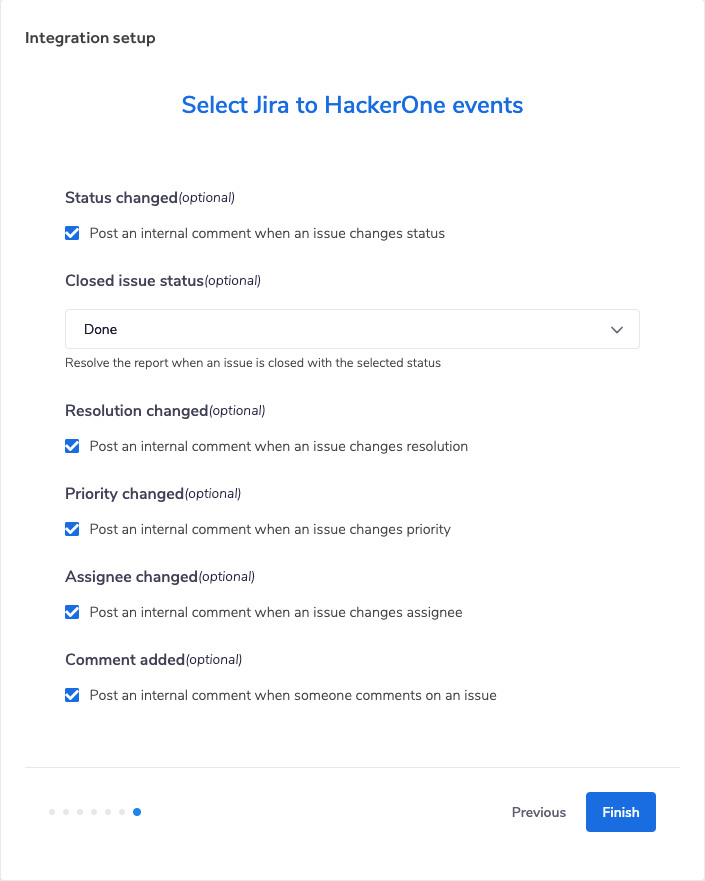
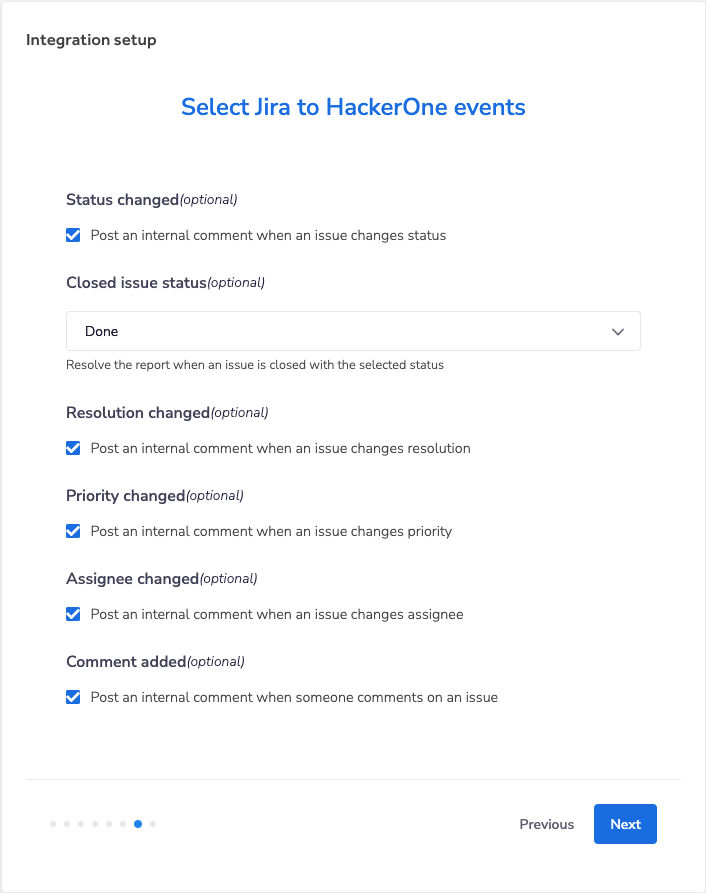
Update per Gitlab issue #51532

diff --git a/docs/programs/jira-setup.md b/docs/programs/jira-setup.md
@@ -77,8 +77,8 @@ Ee69GuatJo5veIMeDwIDAQAB
 
 ![jira-setup-10](./images/jira-setup-10.png)
 
-15. Select the HackerOne fields you want to map to the corresponding Jira fields. As alternative, enter any text using [integration variables](/programs/integration-variables.html). Click **Next**. 
-    
+15. Select the HackerOne fields you want to map to the corresponding Jira fields. As alternative, enter any text using [integration variables](/programs/integration-variables.html). Click **Next**.
+
 *Note: only [supported Jira field types](/programs/jira-faqs.html) are shown.*
 
 ![jira-setup-12](./images/jira-setup-12.png)
@@ -113,7 +113,11 @@ Comment added | Post an internal comment when someone comments on an issue.
 
 ![jira-setup-13](./images/jira-setup-13.png)
 
-19. Click **Finish**. Once the screen disappears, click **Enable** to enable the integration.
+19. (Optional) Once you complete this integration, a Jira webhook will be automatically created in your Jira instance. If there is no webhook created, you can use this Webhook URL to create a webhook manually with the Issue Updated and Comment Created events.
+![jira-setup-15](./images/jira-setup-15.png)
+
+
+20. Click **Finish**. Once the screen disappears, click **Enable** to enable the integration.
 
 ![jira-setup-14](./images/jira-setup-14.png)
 
@@ -123,7 +127,7 @@ You're all set! Now that you've finished setting up the Jira integration, you ca
 
 If you have multiple HackerOne programs, you can integrate them to the same Jira instance. Follow steps 11-19 for each subsequent program you need to add an integration for.
 
-*Note: You only need to follow steps 11-19 for your other programs because the application link has already been created when integrating with your first program, and only 1 application link is needed to set up a Jira integration.*
+*Note: You only need to follow steps 11-20 for your other programs because the application link has already been created when integrating with your first program, and only 1 application link is needed to set up a Jira integration.*
 
 ### Multiple Jira instances per program
 This feature is available for **Enterprise programs only**. If you want to integrate the same program to multiple Jira instances, you can follow all the steps above for each integration.

diff --git a/docs/programs/integration-variables.md b/docs/programs/integration-variables.md
@@ -11,7 +11,8 @@ Variable | Details |
 `{{cvss_score}}` | The CVSS severity score of the report. |
 `{{cvss_vector}}` | The CVSS vector string of the report. |
 `{{days_after_report(days)}}` | Provides a date based on the report creation date and the provided argument. `{{days_after_report(5)}}` will output a date 5 days after the report was created. |
-`{{details_custom_jira}}` | The link, date, reporter, weakness, and description of the vulnerability in the report. These are written in a markdown format customized for Jira. |
+`{{details_custom_jira}}` | The link, date, reporter, weakness, comments and description of the vulnerability in the report. These are written in a markdown format customized for Jira. |
+`{{details_jira}}`  | The link, date, reporter, weakness, and description of the vulnerability in the report. These are written in a markdown format customized for Jira. |
 `{{details_markdown}}` | The link, date, reporter, weakness, and description of the vulnerability in the report in markdown format. |
 `{{details_truncated}}` | The link, date, reporter, weakness, and description of the vulnerability in the report in plain text format.  These details are truncated at 4,000 characters.
 `{{details}}` | The link, date, reporter, weakness, and description of the vulnerability in the report in plain text format. |
